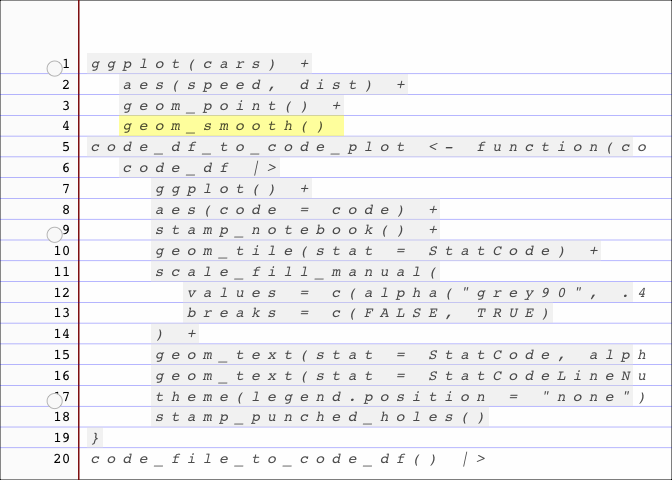
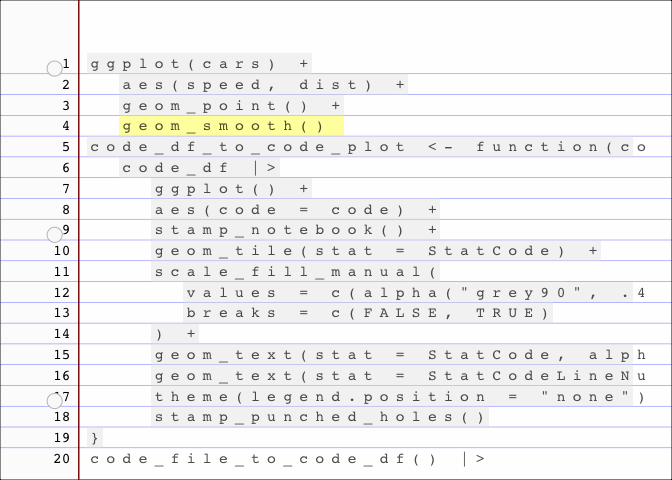
remove italics

diff --git a/README.md b/README.md
@@ -66,6 +66,7 @@ library(tidyverse)
 ```
 
 ``` r
+#' @export
 clearhistory <- function() {
   
   temp <- tempfile()
@@ -268,7 +269,7 @@ code_df_to_code_plot <- function(code_df){
     geom_tile(stat = StatCode) + 
     scale_fill_manual(values = c(alpha("grey90",.4), alpha("yellow", .4)), 
                       breaks = c(FALSE, TRUE)) +
-    geom_text(stat = StatCode, alpha = .7, family = "mono", fontface = "italic") +
+    geom_text(stat = StatCode, alpha = .7, family = "mono") +
     geom_text(stat = StatCodeLineNumbers, family = "mono") +
     theme(legend.position = "none") + 
     stamp_punched_holes()
@@ -303,6 +304,83 @@ ggram <- function(title = NULL, widths = c(1,1), ...){
     theme(plot.background = element_rect(colour = "black", linewidth = .05))
   
 }
+
+#' @export
+ggram_df_output <- function(title = NULL, widths = c(1,1), ...){
+  
+  temp <- tempfile()
+  savehistory(file = temp)
+
+  readLines(temp)[!stringr::str_detect(readLines(temp), "ggram")] |>  
+  paste(collapse = "\n") ->
+    code
+  
+  code_plot <- code_file_to_code_df(temp) |>
+    code_df_to_code_plot()
+  
+  eval(parse(text = code)) -> output
+  
+  
+  patchwork::free(code_plot) + gt::gt(output) + patchwork::plot_layout(widths = widths) +
+  patchwork::plot_annotation(title = title, ...) & 
+  theme(plot.background = element_rect(colour = "black", linewidth = .05))
+    
+}
+
+#' @export
+ggram_tp_output <- function(title = NULL, widths = c(1,1), ...){
+  
+  temp <- tempfile()
+  savehistory(file = temp)
+
+  readLines(temp)[!stringr::str_detect(readLines(temp), "ggram")] |>  
+  paste(collapse = "\n") ->
+    code
+  
+  code_plot <- code_file_to_code_df(temp) |>
+    code_df_to_code_plot()
+  
+  eval(parse(text = code)) |> tidypivot::collect() -> output
+  
+  
+  patchwork::free(code_plot) + gt::gt(output) + patchwork::plot_layout(widths = widths) +
+  patchwork::plot_annotation(title = title, ...) & 
+  theme(plot.background = element_rect(colour = "black", linewidth = .05))
+    
+}
+
+
+#' @export
+ggram_text_output <- function(title = NULL, widths = c(1,1), ...){
+  
+  temp <- tempfile()
+  savehistory(file = temp)
+
+  readLines(temp)[!stringr::str_detect(readLines(temp), "ggram")] |>  
+  paste(collapse = "\n") ->
+    code
+  
+  code_plot <- code_file_to_code_df(temp) |>
+    code_df_to_code_plot()
+  
+  capture.output(eval(parse(text = code))) -> output
+  
+  output |>
+    data.frame(code = _) |>
+      dplyr::mutate(row_number = dplyr::row_number()) |>
+      ggplot() + 
+      aes(x = 1, 
+          y = row_number, 
+          label = code) +
+      geom_text(hjust = 0, family = "mono") +
+    stamp_notebook() ->
+    text_output_plot
+  
+  patchwork::free(code_plot) + text_output_plot + patchwork::plot_layout(widths = widths) +
+  patchwork::plot_annotation(title = title, ...) & 
+  theme(plot.background = element_rect(colour = "black", linewidth = .05))
+    
+}
 ```
 
 ``` r
@@ -316,6 +394,24 @@ ggplot(cars) +
 ggram()
 
 ggsave(filename = "a_ggram.png", width = 8, height = 5)
+```
+
+``` r
+library(ggram)
+ggram:::clearhistory()
+
+library(ggsurvfit)
+df_colon |>
+  survfit2(Surv(time, status) ~ 
+             surg, 
+           data = _) |>
+  ggsurvfit(linewidth = 1) +
+  add_confidence_interval() +
+  add_quantile(y_value = 0.6) +
+  scale_ggsurvfit()
+
+
+ggram("30DayChartChallenge2024, Day #7: Hazards")
 ```
 
 ``` r
